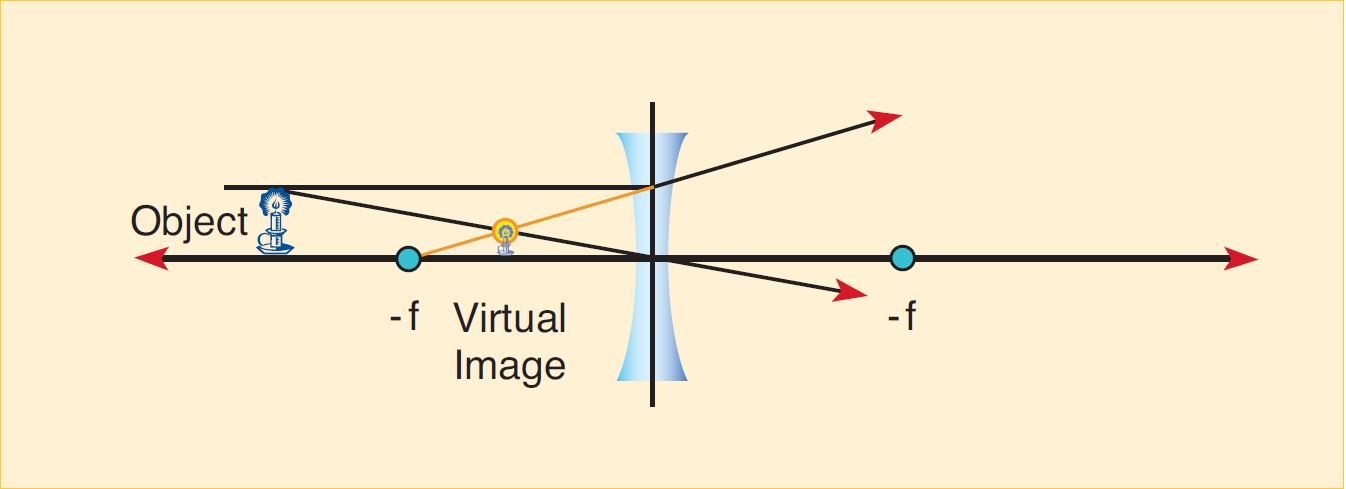
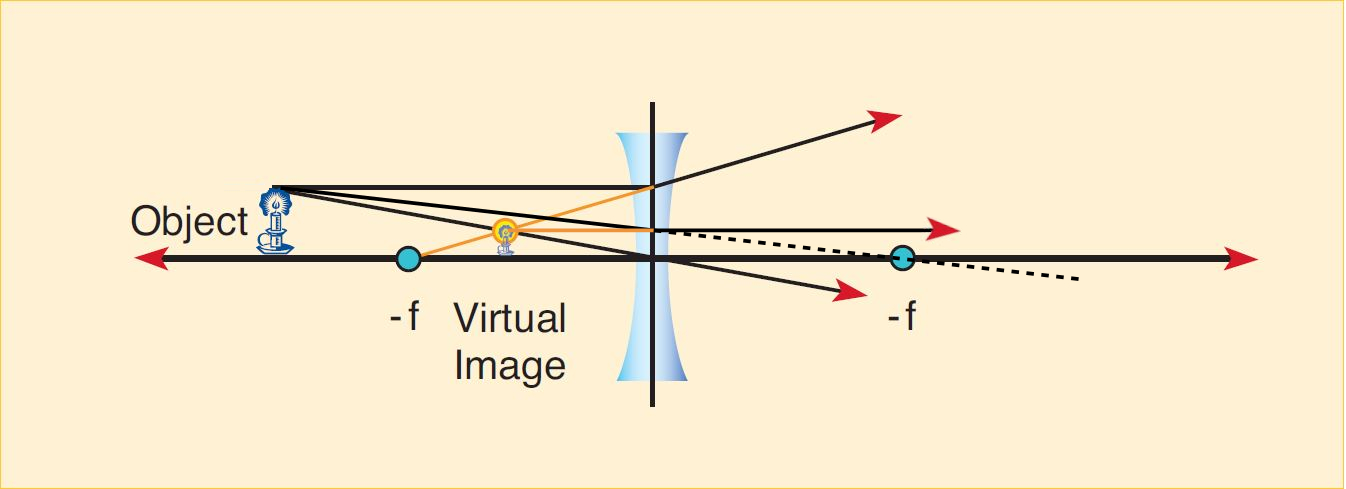
General updates, per description below:
Finishing edits to pendulum lab, including format changes to accommodate new editor; .html insert for PhETMod simulation.

Updated concave lens ray tracing.

Renamed 6BL Math Lab files to preserve old, intermediate and new forms.

diff --git a/6BL/Pendulum/Pendulum.html b/6BL/Pendulum/Pendulum.html
@@ -93,7 +93,12 @@ c) Knowing what you know now, does this agree with your response to Question 4.a
 <li>Using the slope and <em>y</em>-intercept of your log-log graph, determine the quantities <span class="math math-inline"><span class="katex"><span class="katex-mathml"><math xmlns="http://www.w3.org/1998/Math/MathML"><semantics><mrow><mi>a</mi></mrow><annotation encoding="application/x-tex">a</annotation></semantics></math></span><span class="katex-html" aria-hidden="true"><span class="base"><span class="strut" style="height:0.43056em;vertical-align:0em;"></span><span class="mord mathdefault">a</span></span></span></span></span> and <span class="math math-inline"><span class="katex"><span class="katex-mathml"><math xmlns="http://www.w3.org/1998/Math/MathML"><semantics><mrow><mi>b</mi></mrow><annotation encoding="application/x-tex">b</annotation></semantics></math></span><span class="katex-html" aria-hidden="true"><span class="base"><span class="strut" style="height:0.69444em;vertical-align:0em;"></span><span class="mord mathdefault">b</span></span></span></span></span>.</li>
 </ol><div class="QuestionHeading"><p>Question 10</p><div class="Question parsed"><p>a. What is your measured value of <span class="math math-inline"><span class="katex"><span class="katex-mathml"><math xmlns="http://www.w3.org/1998/Math/MathML"><semantics><mrow><mi>b</mi></mrow><annotation encoding="application/x-tex">b</annotation></semantics></math></span><span class="katex-html" aria-hidden="true"><span class="base"><span class="strut" style="height:0.69444em;vertical-align:0em;"></span><span class="mord mathdefault">b</span></span></span></span></span>? What do you think <span class="math math-inline"><span class="katex"><span class="katex-mathml"><math xmlns="http://www.w3.org/1998/Math/MathML"><semantics><mrow><mi>b</mi></mrow><annotation encoding="application/x-tex">b</annotation></semantics></math></span><span class="katex-html" aria-hidden="true"><span class="base"><span class="strut" style="height:0.69444em;vertical-align:0em;"></span><span class="mord mathdefault">b</span></span></span></span></span> should be, and what does it tell you about the relationship between period and length?</p><p>b. What is the value of <span class="math math-inline"><span class="katex"><span class="katex-mathml"><math xmlns="http://www.w3.org/1998/Math/MathML"><semantics><mrow><mi>a</mi></mrow><annotation encoding="application/x-tex">a</annotation></semantics></math></span><span class="katex-html" aria-hidden="true"><span class="base"><span class="strut" style="height:0.43056em;vertical-align:0em;"></span><span class="mord mathdefault">a</span></span></span></span></span> and what does it suggest? <strong>Hint: Think of quantities that are physically relevant to the experiment.</strong></p><p>c. Use dimensional analysis to show that this interpretation of <span class="math math-inline"><span class="katex"><span class="katex-mathml"><math xmlns="http://www.w3.org/1998/Math/MathML"><semantics><mrow><mi>a</mi></mrow><annotation encoding="application/x-tex">a</annotation></semantics></math></span><span class="katex-html" aria-hidden="true"><span class="base"><span class="strut" style="height:0.43056em;vertical-align:0em;"></span><span class="mord mathdefault">a</span></span></span></span></span> makes sense.</p><p>d. With the derived values for <span class="math math-inline"><span class="katex"><span class="katex-mathml"><math xmlns="http://www.w3.org/1998/Math/MathML"><semantics><mrow><mi>a</mi></mrow><annotation encoding="application/x-tex">a</annotation></semantics></math></span><span class="katex-html" aria-hidden="true"><span class="base"><span class="strut" style="height:0.43056em;vertical-align:0em;"></span><span class="mord mathdefault">a</span></span></span></span></span> and <span class="math math-inline"><span class="katex"><span class="katex-mathml"><math xmlns="http://www.w3.org/1998/Math/MathML"><semantics><mrow><mi>b</mi></mrow><annotation encoding="application/x-tex">b</annotation></semantics></math></span><span class="katex-html" aria-hidden="true"><span class="base"><span class="strut" style="height:0.69444em;vertical-align:0em;"></span><span class="mord mathdefault">b</span></span></span></span></span>, write the explicit mathematical relationship between Period and Length.</p></div></div></div></div>
 <h2>PART 5: POST LAB</h2>
-<div class="ExerciseHeading"><p>Exercise 8</p><div class="Exercise parsed"><div class="QuestionHeading"><p>Question 11</p><div class="Question parsed"><div class="row"><div class="col"><p>Consider two different pendulums of equal mass and tied to strings of equal length, but which differ in the following way: The first is a sphere, similar to those used in this experiment. The second is a lengthy rod, tied at one end. (See Figure 2.) Which pendulum has a longer period? <strong>Hint: Think about the center of mass and what that means for the effective length.</strong></p></div><div class="col"><p><img src="imgs/TwoPendulums.png" alt="Figure 2"></p></div></div></div></div><p>For the next few questions, use the PhET simulation for a pendulum:</p><p><img src="https://ilg-physics-ucsb.github.io/PhETMods/pendulum-lab/pendulum-lab_en.html?screens=1" alt="Simulation 1"></p><ol>
+<div class="ExerciseHeading"><p>Exercise 8</p><div class="Exercise parsed"><div class="QuestionHeading"><p>Question 11</p><div class="Question parsed"><div class="row"><div class="col"><p>Consider two different pendulums of equal mass and tied to strings of equal length, but which differ in the following way: The first is a sphere, similar to those used in this experiment. The second is a lengthy rod, tied at one end. (See Figure 2.) Which pendulum has a longer period? <strong>Hint: Think about the center of mass and what that means for the effective length.</strong></p></div><div class="col"><p><img src="imgs/TwoPendulums.png" alt="Figure 2"></p></div></div></div></div><p>For the next few questions, use the PhET simulation for a pendulum:</p>
+<figure class="Simulation">
+    <embed src="https://ilg-physics-ucsb.github.io/PhETMods/pendulum-lab/pendulum-lab_en.html" width="100%" height="600" allowfullscreen frameborder="0">
+    <figcaption>Simulation 1</figcaption>
+</figure>
+<ol>
 <li>Pick three new lengths that are not shown in Video 4. Take data for the periods corresponding to these lengths, and add those three points to your plots. Make these three points different from the rest of your data (by color or shape).</li>
 </ol><div class="QuestionHeading"><p>Question 12</p><div class="Question parsed"><p>How well do these new points fit with your previous data?</p></div></div><ol start="2">
 <li>On the right side control panel in the simulation, click the drop-down menu and select "Planet X".</li>

diff --git a/6BL/MathLab/MathLab_old.md b/6BL/MathLab/MathLab_old.md
@@ -1,0 +1,142 @@
+# Lab Math 6BL
+
+## 1. INTRODUCTION
+
+In 1932 Max Kleiber publish a paper titled ["Body Size and Metabolism"](http://hilgardia.ucanr.edu/fileaccess.cfm?article=152052&p=VOWQRB). He was interested in the relationship between an animal's size and the amount of energy it uses. For mammals, the rate at which an animal uses energy is known as the Basal Metabolic Rate (BMR). To determine the size of the animals Kleiber focused on the animal's mass. It was known that smaller animals have lower BMRs while larger animals have higher BMRs, but the relationship between size and BMR is not linear. The relationship took the form of a power law. That is to say,
+
+
+:::Figure:Equation
+$$
+BMR = aW^{b},
+$$
+:::
+
+where *a* and *b* are both unknown constants and W is the mass of the animal. There was a theory based on the surface area to volume ratio of animal that suggested that the value for *b* is *2/3*. This was called the surface law. We will look at the collection of data in Kleiber's original paper and use our knowledge of logarithms to see what value of *b* was reported by Kleiber.
+
+## 2. DATA
+
+:::Figure:Figure
+![](imgs/Figure1.jpg) Kleiber's Data
+:::
+
+Above in Fig. (1) is the raw data that was printed in Kleiber's report. Because it is hard to parse the important information we did that for you. Fig. (2) is the data table you should reference. The first column is the mass of each type of animal in kilograms. The second column is how much energy the animal used in one day (the BMR) and uses Kleiber's preferred units of Cal/24hrs. Since Calories are not the SI unit of energy, we converted the second column to Joules/24hrs in the third column for you.
+
+:::Figure:Figure
+![](imgs/Figure2.jpg)  
+This is the simplified table.
+:::
+
+> **REPORT REQUIREMENTS: For your report you should explicitly answer each question in the report. You should also include all your work for the exercises, which will consist of one table and two plots.**
+
+:::Exercise
+Use Excel, Google Sheets, MATLAB, or any other data processing package of our choice to create your own version of the table in Fig. (2). You will want to include the "Average weight..." (Mass) column, the "Cals. per 24hrs..." (BMR) column, and the third BMR column in units of J/24hrs. **Note: In the third column, we have given you too many digits since it is an intermediary part of the calculation! In your own table you should adjust the third column to contain the correct number of significant figures.**
+:::
+
+## 3. UNITS
+
+Notice the units Kleiber used, Calories/24hrs. We need to convert these units to SI units. Calories are a unit of energy, and hours a unit of time. Energy per time is called power. 
+
+1. **Note: Calories with a capital "C" are kilocalories or 1000 calories.**
+2. **Furthermore 1 Calorie = 1000 calories = 4184 Joules**
+
+:::Exercise
+Add another column to your table by converting the BMR column to the SI unit of power, Watts, which is also Joules per second. We have started the process for you by adding a J/24hrs column. Now convert that to J/s a.k.a. Watts.
+:::
+
+## 4. PLOT 1
+
+:::Exercise
+Now that you have converted the units, create a plot of BMR vs. Mass. Add a line of best fit to this plot. Make sure that it has all of the components of a good plot in order to receive full credit.
+:::
+
+:::Question
+Does this graph look linear, quadratic, exponential, or something else? How can you tell? Does it make sense to perform a linear fit with this data set, why or why not? Don't use $R^{2}$ in your answer. Does it look like the $b = 2/3$ theory could be correct?
+:::
+
+## 5. LOGARITHM REVIEW
+
+Recall the following properties of logarithms. You will use these properties to determine the value of b
+
+::: Figure:Equation
+$$
+log(AB) = log(A) + log(B)
+$$
+:::
+
+:::Figure:Equation
+$$
+log(C^{D}) = Dlog(C)
+$$
+:::
+
+:::Figure:Equation
+$$
+10^{log(F)} = F
+$$
+:::
+
+:::Question
+Take the log (base 10) of both sides of Eqn. (1) and use the logarithm properties above to write the equation in a linear form. Show your work.
+:::
+
+:::Question
+Your answer to Question 2 should look something like:
+
+$$
+y = mx + b
+$$
+
+Make a similar table to the one below into your report and fill in the missing column with the equivalent parts from you answer to Question 2.
+
+:::Figure:Table
+| Name | Variable | Variable|
+| -------- | -------- | -------- |
+| Dependent Variable | y |
+| Independent Variable | x |
+| Slope | m |
+| Y-Intercept | b |  |
+:::
+
+:::
+
+:::Question
+If you made a mistake above and did not take into account 1 Calorie is 1000 calories how would this affect your analysis going forward? Which of the constants *a* and *b* from Eqn. (1) would be affected by this mistake? Explain your answer using properties of logarithms.
+:::
+
+:::Exercise
+In the data table you created earlier add two more columns. These should be the logarithm of the mass and logarithm of the BMR. Fill in the table with the appropriate values.
+:::
+
+**Note: If using a computer for this calculation, the computer will often use the "log" command as the natural logarithm (Ln), or log base 2 by default. If you are using Excel or Google Sheets you will want the log10 function, not the log function.**
+
+## 6. PLOT 2
+:::Exercise
+Create a new plot of the Log(BMR) vs Log(Mass). Again, make sure that it has all of the components of a good plot in order to receive full credit.
+:::
+
+:::Question
+Does this graph look linear, quadratic, exponential, or something else? Does it make sense to perform a linear fit with this data set?
+:::
+
+:::Exercise
+Create a best fit line for the new Log-Log plot.
+:::
+
+:::Question
+Does this graph look linear, quadratic, exponential, or something else? How can you tell? Does it make sense to perform a linear fit with this data set, why or why not? Don't use $R^{2}$ in your answer. Compare and contrast this plot to the previous one.
+:::
+
+:::Question
+What is the equation for your line of best fit? Using this equation, what is the value for *b* in Eqn. (1)?
+:::
+
+:::Question
+Does your value for *b* support or contradict the surface law?
+:::
+
+## 7. ADDITIONAL INFO
+
+While Kleiber published his report a long time ago, the exact relationship between BMR and size is still unknown. People still have many metrics in which they try to make a theory in order to predict and measure the value of b. We would like to note that this was just an exercise in some simple regression analysis and logarithm review in order to prepare you for the first lab. Please don't take anything in this document to be absolute or fact.
+
+
+

diff --git a/6BL/Pendulum/pendulum.md b/6BL/Pendulum/pendulum.md
@@ -238,7 +238,7 @@ Consider two different pendulums of equal mass and tied to strings of equal leng
 
 For the next few questions, use the PhET simulation for a pendulum:
 
-![Simulation 1](https://ilg-physics-ucsb.github.io/PhETMods/pendulum-lab/pendulum-lab_en.html?screens=1)<!--{width=100% height=600px}-->
+[Simulation 1 goes here (.html insert)]
 
 1. Pick three new lengths that are not shown in Video 4. Take data for the periods corresponding to these lengths, and add those three points to your plots. Make these three points different from the rest of your data (by color or shape).
 
